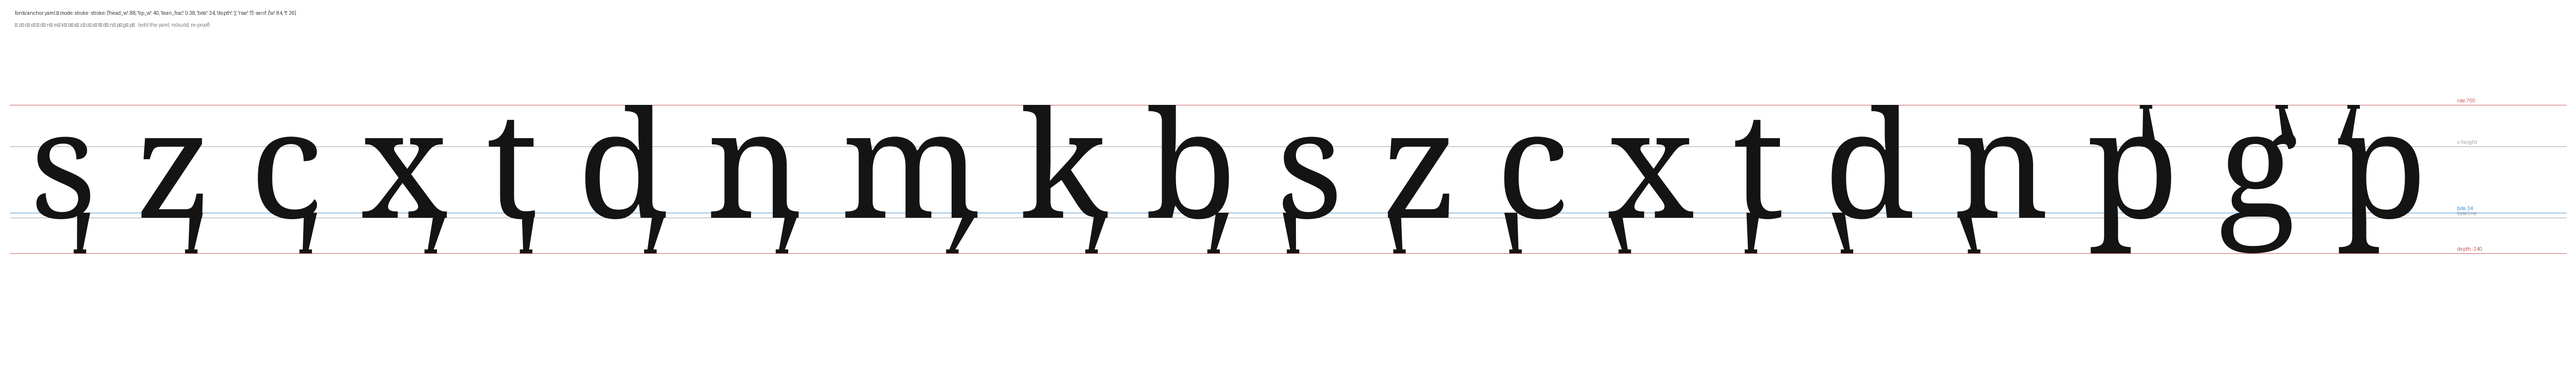
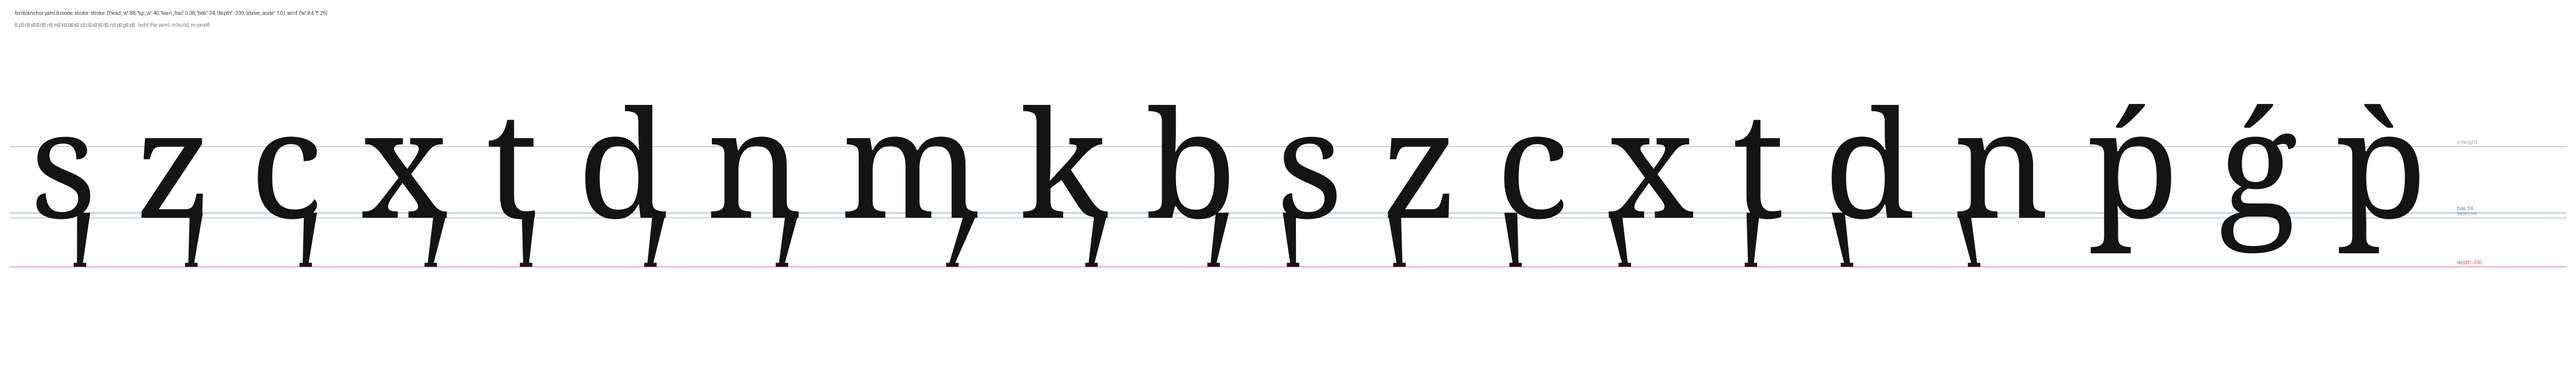
The anchor lengthens to a big long serif; the above-anchor is the long acute
The below stroke reaches -330, well past the descenders, reading as a long
serifed stroke with some tilt. The above-anchor of the float rule stops
being a rising stroke: it is the vowels' long acute, centred on the letter,
mirrored for the reverse, with above_scale as its knob; the bare 0313/0314
marks take the same shape.

diff --git a/docs/index.html b/docs/index.html
@@ -23,7 +23,7 @@
   --accent:#3ec8cf; --base-c:#3ec8cf; --c-c:#e0a44a; --j-c:#8b9ff0; --q-c:#c08ee0; --x-c:#4fc79a; --y-c:#e88ac0;
   --base-t:#3ec8cf1e; --c-t:#e0a44a22; --j-t:#8b9ff01e; --q-t:#c08ee01e; --x-t:#4fc79a22; --y-t:#e88ac022;
 }
-@font-face{font-family:"Diaphone";src:url(diaphone.woff2?v=1788715803) format("woff2");font-display:swap}
+@font-face{font-family:"Diaphone";src:url(diaphone.woff2?v=1788717148) format("woff2");font-display:swap}
 *{box-sizing:border-box}
 body{margin:0;background:var(--paper);color:var(--ink);font-family:var(--sans);line-height:1.6;font-size:15px;-webkit-font-smoothing:antialiased}
 .wrap{max-width:1020px;margin:0 auto;padding:clamp(1.4rem,4vw,3rem) clamp(1rem,4vw,2rem) 4rem}

diff --git a/docs/fonts.html b/docs/fonts.html
@@ -19,7 +19,7 @@
   --paper:#14161b; --card:#1b1e25; --sunken:#101216; --ink:#e9ecf1; --muted:#98a1b0; --line:#2a2e37;
   --accent:#3ec8cf; --bad:#e07a7a; --warn:#e0a44a;
 }
-@font-face{font-family:"Diaphone";src:url(diaphone.woff2?v=1788715803) format("woff2");font-display:swap}
+@font-face{font-family:"Diaphone";src:url(diaphone.woff2?v=1788717148) format("woff2");font-display:swap}
 *{box-sizing:border-box}
 body{margin:0;background:var(--paper);color:var(--ink);font-family:var(--sans);line-height:1.55;font-size:15px}
 .wrap{max-width:1100px;margin:0 auto;padding:clamp(1.4rem,4vw,3rem) clamp(1rem,4vw,2rem) 4rem}

diff --git a/docs/play.html b/docs/play.html
@@ -20,7 +20,7 @@
   --paper:#14161b; --card:#1b1e25; --sunken:#101216; --ink:#e9ecf1; --muted:#98a1b0; --line:#2a2e37;
   --accent:#3ec8cf; --bad:#e07a7a;
 }
-@font-face{font-family:"Diaphone";src:url(diaphone.woff2?v=1788715803) format("woff2");font-display:swap}
+@font-face{font-family:"Diaphone";src:url(diaphone.woff2?v=1788717148) format("woff2");font-display:swap}
 *{box-sizing:border-box}
 body{margin:0;background:var(--paper);color:var(--ink);font-family:var(--sans);line-height:1.55;font-size:15px}
 .wrap{max-width:880px;margin:0 auto;padding:clamp(1.4rem,4vw,3rem) clamp(1rem,4vw,2rem) 4rem}

diff --git a/docs/master.html b/docs/master.html
@@ -23,7 +23,7 @@
   --accent:#3ec8cf; --good:#4fc79a; --warn:#e0a44a;
   --c-c:#e0a44a; --j-c:#8b9ff0; --q-c:#c08ee0; --x-c:#4fc79a; --y-c:#e88ac0;
 }
-@font-face{font-family:"Diaphone";src:url(diaphone.woff2?v=1788715803) format("woff2");font-display:swap}
+@font-face{font-family:"Diaphone";src:url(diaphone.woff2?v=1788717148) format("woff2");font-display:swap}
 *{box-sizing:border-box}
 body{margin:0;background:var(--paper);color:var(--ink);font-family:var(--sans);line-height:1.55;font-size:15px}
 .wrap{max-width:1020px;margin:0 auto;padding:clamp(1.4rem,4vw,3rem) clamp(1rem,4vw,2rem) 4rem}

diff --git a/fonts/tools/build_font.py b/fonts/tools/build_font.py
@@ -168,14 +168,16 @@ def _bake_strokes(font, gs, cmap, P, xh):
     toward its middle, to descender depth, serifed at the tip; the head bites
     into the letter to absorb its serif. Above-anchors mirror to the ascender."""
     from fontTools.pens.ttGlyphPen import TTGlyphPen
+    from fontTools.pens.transformPen import TransformPen
+    from fontTools.misc.transform import Transform
     S = P['stroke']
     head_w, tw = S['head_w'], S['tip_w'] / 2
     lean, bite = S['lean_frac'], S['bite']
     sw, st = P['serif']['w'] / 2, P['serif']['t']
     depth = (_outline(gs, cmap[ord('j')])[2] if isinstance(S['depth'], str)
              else S['depth'])
-    rise = (_outline(gs, cmap[ord('l')])[3] if isinstance(S['rise'], str)
-            else S['rise'])
+    a_rec, a_cx, a_ymin, _ = _outline(gs, cmap[0x0301])
+    ascale = S.get('above_scale', 1.0)
     glyf, hmtx = font['glyf'], font['hmtx']
     liga = {}
     for base, mark in _anchor_pairs():
@@ -188,29 +190,26 @@ def _bake_strokes(font, gs, cmap, P, xh):
         mx = (min(p[0] for p in pts) + max(p[0] for p in pts)) / 2
         above = mark in (0x0313, 0x0314)
         left = mark in (0x0316, 0x0314)
-        if above:
-            zone = [p for p in pts if p[1] >= xh * 0.85] or pts
-            y0, ty = xh - bite, rise
-        else:
-            zone = [p for p in pts if p[1] <= xh * 0.35] or pts
-            y0, ty = bite, depth
-        edge = (min if left else max)(p[0] for p in zone)
-        tx = edge + lean * (mx - edge)
-        h1, h2 = sorted((edge, edge + head_w if left else edge - head_w))
-        if above:
-            ys = ty - st
-            poly = [(h2, y0), (h1, y0), (tx - tw, ys), (tx - sw, ys),
-                    (tx - sw, ty), (tx + sw, ty), (tx + sw, ys), (tx + tw, ys)]
-        else:
-            ys = ty + st
-            poly = [(h1, y0), (h2, y0), (tx + tw, ys), (tx + sw, ys),
-                    (tx + sw, ty), (tx - sw, ty), (tx - sw, ys), (tx - tw, ys)]
         pen = TTGlyphPen(None)
         rec.replay(pen)
-        pen.moveTo(poly[0])
-        for p in poly[1:]:
-            pen.lineTo(p)
-        pen.closePath()
+        if above:   # the vowels' long acute, mirrored for the reverse
+            sxx = -ascale if left else ascale
+            t = Transform(sxx, 0, 0, ascale,
+                          mx - sxx * a_cx, a_ymin - ascale * a_ymin)
+            a_rec.replay(TransformPen(pen, t))
+        else:
+            zone = [p for p in pts if p[1] <= xh * 0.35] or pts
+            edge = (min if left else max)(p[0] for p in zone)
+            tx = edge + lean * (mx - edge)
+            h1, h2 = sorted((edge, edge + head_w if left else edge - head_w))
+            ys = depth + st
+            poly = [(h1, bite), (h2, bite), (tx + tw, ys), (tx + sw, ys),
+                    (tx + sw, depth), (tx - sw, depth), (tx - sw, ys),
+                    (tx - tw, ys)]
+            pen.moveTo(poly[0])
+            for p in poly[1:]:
+                pen.lineTo(p)
+            pen.closePath()
         name = f'{bname}_uni{mark:04X}'
         glyf[name] = pen.glyph()
         hmtx[name] = hmtx[bname]
@@ -223,8 +222,8 @@ def _bake_strokes(font, gs, cmap, P, xh):
             for table in font['cmap'].tables:
                 if table.isUnicode():
                     table.cmap[cp] = name
-    print(f'  stroke anchors baked: {len(liga)} pairs · '
-          f'depth {depth:.0f} · rise {rise:.0f}')
+    print(f'  stroke anchors baked: {len(liga)} pairs · depth {depth:.0f} · '
+          f'above = acute x{ascale}')
 
 
 def _anchor_glyphs(font):
@@ -299,8 +298,20 @@ def _anchor_glyphs(font):
 
     put(0x0326, stroke(0x0326), 0x0326)                    # the anchor, serifed
     put(0x0316, stroke(0x0316, mirror=True), 0x0316)       # reverse anchor, serifed
-    put(0x0313, stroke(0x0313, above=True), 0x0313)        # comma above
-    put(0x0314, stroke(0x0313, mirror=True, above=True), 0x0313)   # NEW mirror above
+    if P['mode'] == 'stroke':   # bare above marks: the vowels' long acute
+        a_rec, a_cx, a_ymin, _ = _outline(gs, cmap[0x0301])
+        asc = P['stroke'].get('above_scale', 1.0)
+        def acute_mark(mirror=False):
+            pen = TTGlyphPen(None)
+            sxx = -asc if mirror else asc
+            a_rec.replay(TransformPen(pen, Transform(
+                sxx, 0, 0, asc, a_cx - sxx * a_cx, a_ymin - asc * a_ymin)))
+            return pen.glyph()
+        put(0x0313, acute_mark(), 0x0313)
+        put(0x0314, acute_mark(True), 0x0313)
+    else:
+        put(0x0313, stroke(0x0313, above=True), 0x0313)        # comma above
+        put(0x0314, stroke(0x0313, mirror=True, above=True), 0x0313)   # mirror above
 
     # NEW U+0324: two copies of the font's dot below
     dot, d_cx, _, _ = _outline(gs, 'dotbelowcomb')

diff --git a/fonts/tools/proof.py b/fonts/tools/proof.py
@@ -40,15 +40,14 @@ def main():
     guides = [(0, 'baseline', (160, 160, 160)),
               (xh, 'x-height', (160, 160, 160))]
     if P['mode'] == 'stroke':
-        from fontTools.ttLib import TTFont
-        tt = TTFont(FONT)
-        gl, cm = tt['glyf'], tt.getBestCmap()
-        depth = gl[cm[ord('j')]].yMin
-        rise = gl[cm[ord('l')]].yMax
         S = P['stroke']
+        depth = S['depth']
+        if isinstance(depth, str):
+            from fontTools.ttLib import TTFont
+            tt = TTFont(FONT)
+            depth = tt['glyf'][tt.getBestCmap()[ord('j')]].yMin
         guides += [(S['bite'], f"bite {S['bite']}", (70, 140, 200)),
-                   (depth, f"depth {depth}", (200, 90, 90)),
-                   (rise, f"rise {rise}", (200, 90, 90))]
+                   (depth, f"depth {depth}", (200, 90, 90))]
     else:
         guides += [(P['attach'], f"attach {P['attach']}", (70, 140, 200)),
                    (P['tip'], f"tip {P['tip']}", (200, 90, 90))]
